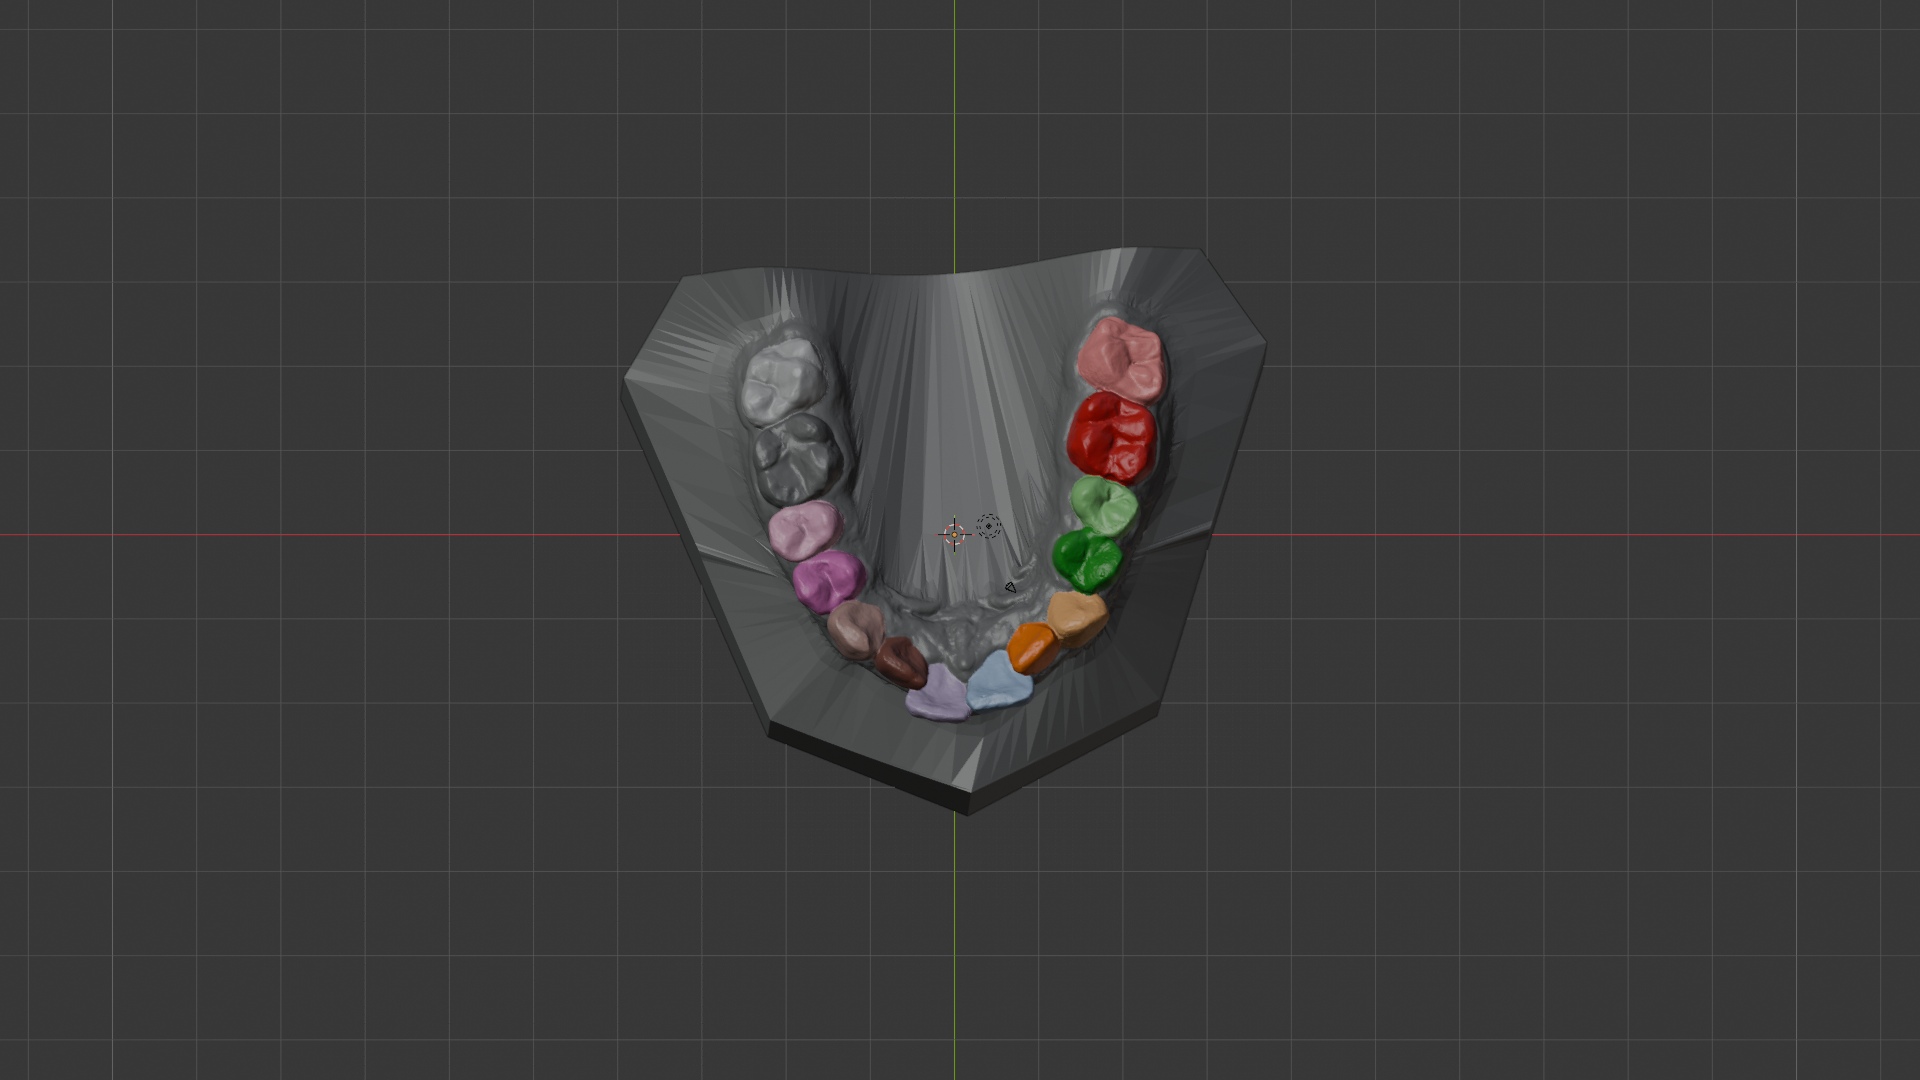
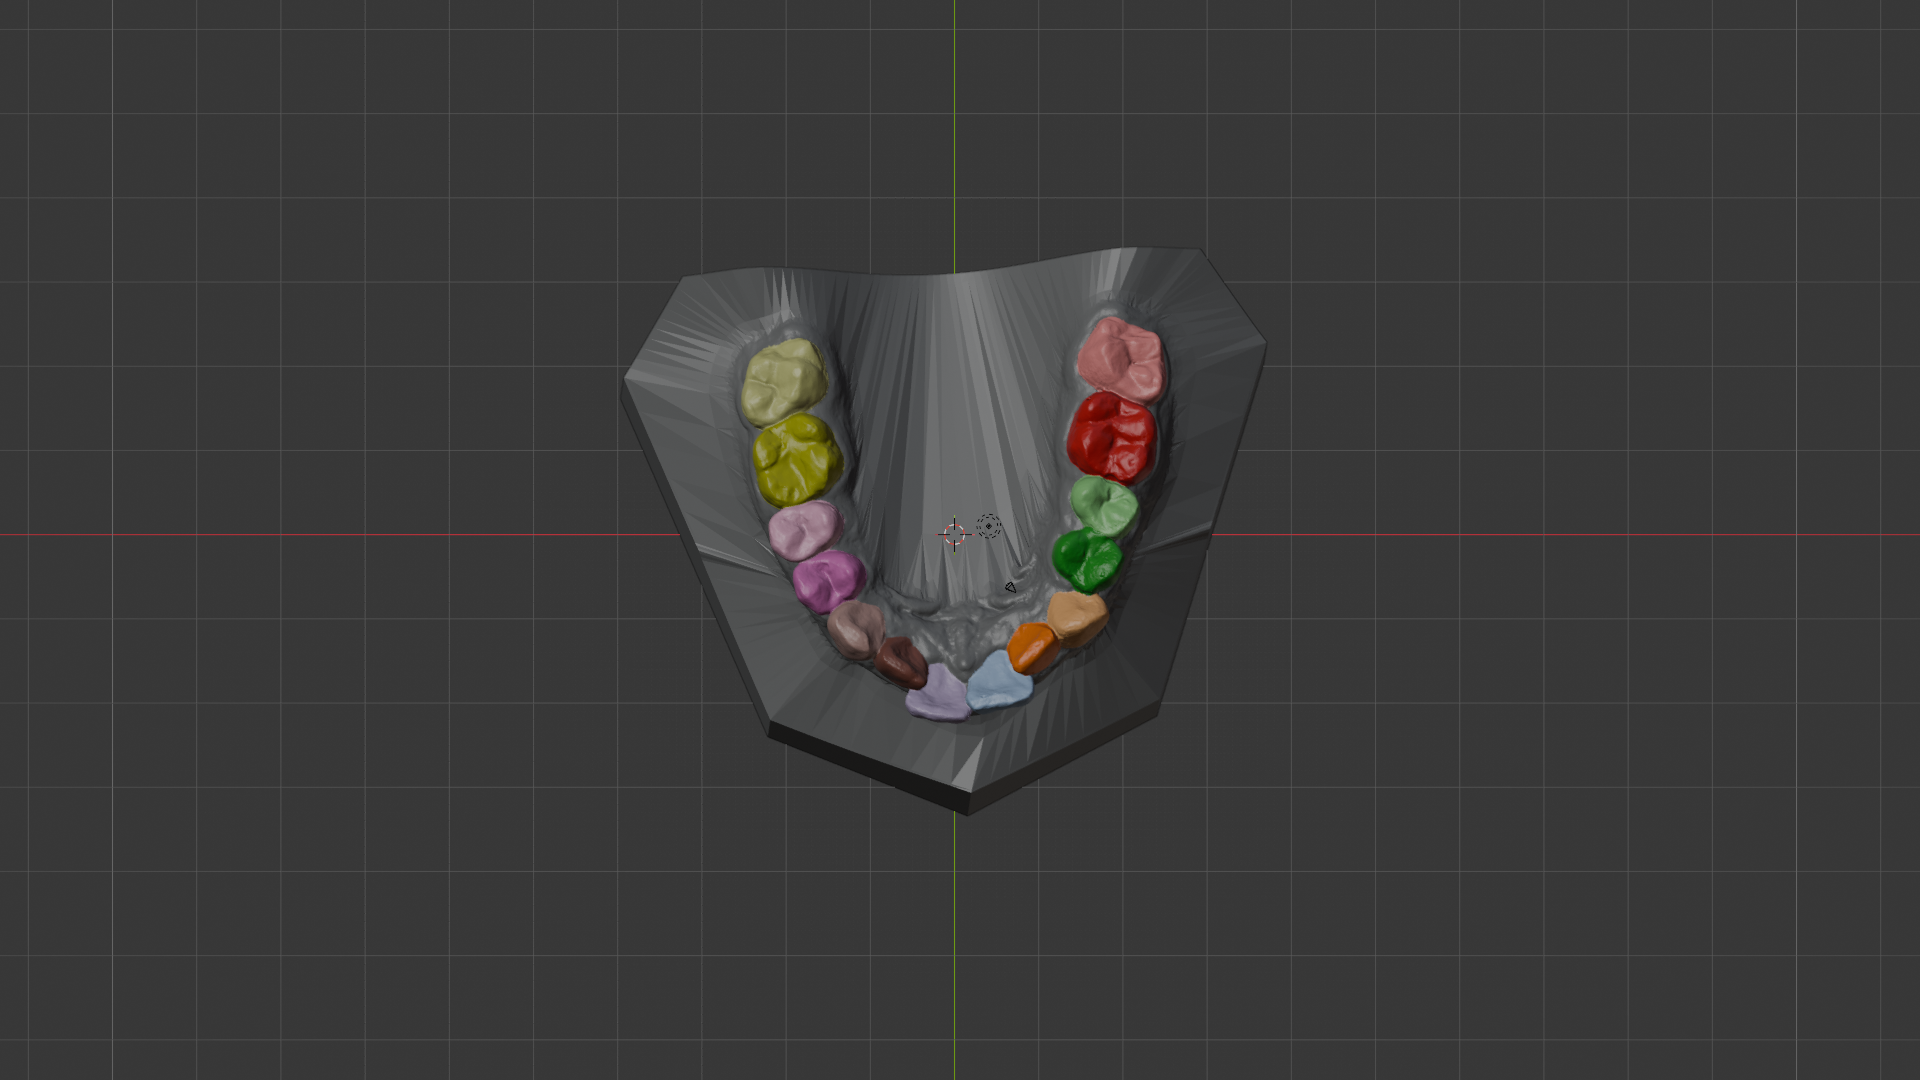
remove gray teeth coloring in viz

Changed region(s): [[0.375, 0.3056, 0.4375, 0.4889]]

diff --git a/src/viz.py b/src/viz.py
@@ -1,19 +1,20 @@
 import numpy as np
 import trimesh
 import matplotlib
-ALL_CODES = [ #make nested list of all possible codes, 1-8 for each quadrant and position
+from pathlib import Path
+ALL_CODES = [ #make nested list of all possible codes, 1-4 and 1-8 for each quadrant and position respectively
         quadrant*10 + position
-        for quadrant in range(1,5) #teeth3ds has only 4 quadrants, 1-4 for upper right, upper left, lower left, lower right, no baby teeth, but we can still use 1-8 for each quadrant to be consistent with the labels
-        for position in range(1,9)
+        for quadrant in range(1,5) #teeth3ds has only 4 quadrants, 1-4 for upper right, upper left, lower left, lower right, no baby teeth
+        for position in range(1, 9)
 ]
-ALL_CODES = np.array([0] + ALL_CODES)
+ALL_CODES = np.array([0] + ALL_CODES)  #plus 0 for gums
 def color_by_label(mesh, labels, highlight=None) -> trimesh.Trimesh:
     """Color the mesh by label.
 
     Args:
         mesh (trimesh.Trimesh): The mesh to color.
         labels (np.ndarray): The labels for each vertex.
-        highlight (int, optional): array of vertex indices to highlight in red. Defaults to None.
+        highlight np.ndarray | None: array of vertex indices to highlight in red. Defaults to None.
 
     Returns:
         trimesh.Trimesh: The colored mesh.
@@ -22,8 +23,11 @@ def color_by_label(mesh, labels, highlight=None) -> trimesh.Trimesh:
     assert np.array_equal(ALL_CODES[label_idx], labels), "labels must be a valid code" # ensure every label is valid code
     
     cmap = matplotlib.colormaps["tab20"]
-    palette = cmap(np.arange(len(ALL_CODES))%20) #get colors for each label
+    base_palette = cmap(np.arange(20)) #get colors for each label
+    base_palette = np.delete(base_palette, [14, 15], axis=0) #remove the 2 gray colors from the palette, which are at index 14 and 15 in tab20
+    palette = base_palette[np.arange(len(ALL_CODES)) % len(base_palette)] #get colors for each label
     palette[0] = [0.5, 0.5, 0.5, 1] #set color for label 0 to gray
+    
     vertex_colors = palette[label_idx]
     if highlight is not None:
         vertex_colors[highlight] = [1, 0, 0, 1] #highlight vertex in red
@@ -36,11 +40,11 @@ if __name__ == "__main__":
     import argparse
     from load_scan import load_scan
     parser = argparse.ArgumentParser(description="Color a mesh by label.")
-    parser.add_argument("scan_path", type=str, help="Path to the scan directory.")
-    parser.add_argument("--out", type=str, help="Path to save the colored mesh.", default="results/colored_mesh.ply")
+    parser.add_argument("scan_path", type=str, help="Path to the scan file.")
+    parser.add_argument("--out", type=Path, help="Path to save the colored mesh.", default="results/colored_mesh.ply")
     parser.add_argument("--highlight", type=int, nargs="+", help="Vertex indices to highlight in red.", default=None)
     args = parser.parse_args()
+    args.out.parent.mkdir(parents=True, exist_ok=True)
     data = load_scan(args.scan_path)
     colored_mesh = color_by_label(data.mesh, data.labels, highlight=args.highlight)
     colored_mesh.export(args.out)
-    #colored_mesh.show()
